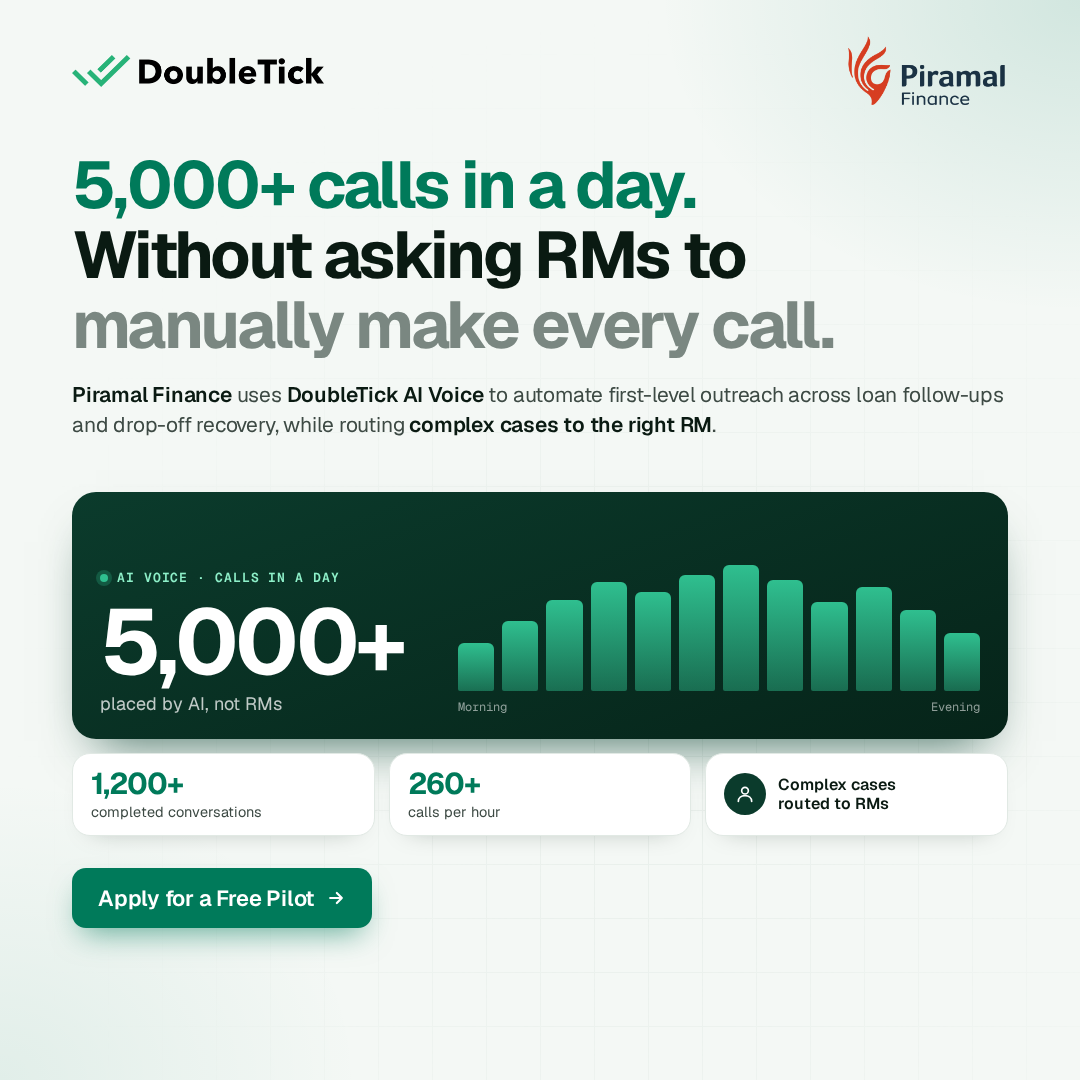
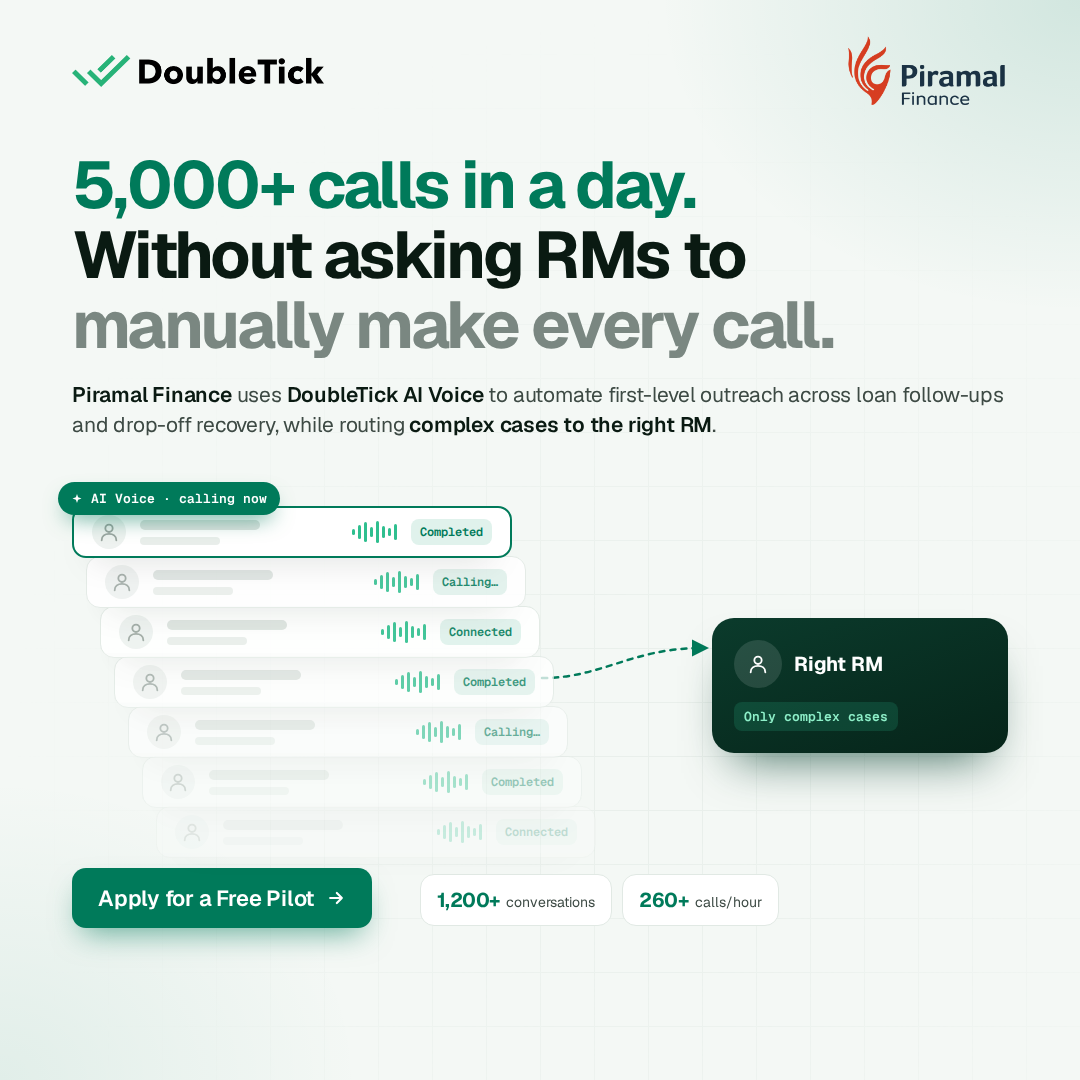
feat: replace metrics card with live-calls visual in Piramal volume ad
Claude-Session: https://claude.ai/code/session_013Hi5o4KgvuLbKTeGkStAKX

diff --git a/ads/doubletick-case-piramal-volume/index.html b/ads/doubletick-case-piramal-volume/index.html
@@ -59,25 +59,38 @@
   .sub { margin-top: 20px; font-size: 21px; line-height: 1.42; color: var(--ink-2); letter-spacing: -0.01em; }
   .sub b { color: var(--ink); font-weight: 600; }
 
-  /* visual: one "today" volume card */
-  .vis { position: absolute; left: 72px; top: 492px; width: 936px; height: 344px; display: grid; grid-template-rows: 1fr auto; gap: 14px; }
-  .main { background: linear-gradient(160deg, #0B3B2C, #062419); border-radius: 24px; padding: 24px 28px; color: #fff;
-    display: grid; grid-template-columns: 330px 1fr; gap: 28px; align-items: end; box-shadow: 0 26px 48px -24px rgba(0,60,43,.75); }
-  .main .k { display: flex; align-items: center; gap: 9px; font-size: 13px; font-weight: 600; letter-spacing: .07em; text-transform: uppercase; color: #8EF0C9; }
-  .main .k i { width: 8px; height: 8px; border-radius: 50%; background: #2FBF8F; box-shadow: 0 0 0 4px rgba(47,191,143,.25); }
-  .main .n { font-size: 92px; font-weight: 700; letter-spacing: -0.05em; line-height: .95; margin-top: 12px; }
-  .main .u { font-size: 18px; color: rgba(255,255,255,.75); margin-top: 6px; }
-  .chart { height: 150px; display: flex; flex-direction: column; gap: 8px; }
-  .bars { flex: 1; display: flex; align-items: flex-end; gap: 8px; }
-  .bars i { flex: 1; border-radius: 6px 6px 2px 2px; background: linear-gradient(180deg, #2FBF8F, rgba(47,191,143,.45)); display: block; }
-  .axis { display: flex; justify-content: space-between; font-size: 12px; color: rgba(255,255,255,.55); }
-  .row { display: grid; grid-template-columns: 1fr 1fr 1fr; gap: 14px; }
-  .tile { background: #fff; border: 1px solid var(--line); border-radius: 18px; padding: 14px 18px; box-shadow: 0 12px 26px -20px rgba(10,26,18,.35); }
-  .tile .v { font-size: 30px; font-weight: 700; letter-spacing: -0.04em; color: var(--green); line-height: 1.05; }
-  .tile .l { font-size: 14.5px; color: var(--ink-2); margin-top: 3px; }
-  .tile.rm { display: flex; align-items: center; gap: 12px; }
-  .tile.rm .av { width: 42px; height: 42px; border-radius: 50%; background: #0B3B2C; display: grid; place-items: center; flex: none; }
-  .tile.rm .t { font-size: 16px; font-weight: 600; line-height: 1.2; }
+  /* visual: a deep stack of live AI calls, one complex case peels off to the RM */
+  .vis { position: absolute; left: 72px; top: 498px; width: 936px; height: 356px; }
+  .stack { position: absolute; left: 0; top: 0; width: 560px; height: 356px; }
+  .call {
+    position: absolute; width: 440px; height: 52px; border-radius: 14px; background: #fff; border: 1px solid var(--line);
+    display: flex; align-items: center; gap: 14px; padding: 0 18px; box-shadow: 0 16px 34px -22px rgba(10,26,18,.4);
+  }
+  .call .av { width: 34px; height: 34px; border-radius: 50%; background: #EEF2F0; display: grid; place-items: center; flex: none; }
+  .call .nm { width: 120px; height: 10px; border-radius: 5px; background: #DDE3E0; }
+  .call .nm2 { width: 80px; height: 8px; border-radius: 4px; background: #E9EEEB; margin-top: 7px; }
+  .call .wv { margin-left: auto; display: flex; align-items: center; gap: 3px; height: 26px; }
+  .call .wv b { width: 3px; border-radius: 2px; background: #2FBF8F; display: block; }
+  .call .st { font-size: 12px; font-weight: 600; padding: 5px 9px; border-radius: 8px; background: var(--green-soft); color: var(--green); white-space: nowrap; }
+  .call.front { border: 2px solid var(--green); }
+  .badge {
+    position: absolute; left: -14px; top: -16px; z-index: 20; display: flex; align-items: center; gap: 8px;
+    background: var(--green); color: #fff; font-size: 13px; font-weight: 600; padding: 8px 13px; border-radius: 999px;
+    box-shadow: 0 10px 22px -8px rgba(0,122,90,.7);
+  }
+  .peel {
+    position: absolute; left: 640px; top: 120px; width: 296px; padding: 22px; border-radius: 22px; color: #fff;
+    background: linear-gradient(160deg, #0B3B2C, #062419); box-shadow: 0 26px 48px -22px rgba(0,60,43,.75);
+    display: flex; flex-direction: column; gap: 14px;
+  }
+  .peel .h { display: flex; align-items: center; gap: 12px; }
+  .peel .av2 { width: 48px; height: 48px; border-radius: 50%; background: rgba(255,255,255,.12); display: grid; place-items: center; }
+  .peel .t { font-size: 20px; font-weight: 700; letter-spacing: -0.01em; }
+  .peel .tag { align-self: flex-start; font-size: 13px; font-weight: 600; color: #8EF0C9; background: rgba(47,191,143,.18); padding: 6px 10px; border-radius: 8px; }
+  .vis svg.arr { position: absolute; left: 470px; top: 120px; width: 170px; height: 80px; overflow: visible; }
+  .pills { position: absolute; left: 420px; top: 874px; display: flex; gap: 10px; }
+  .pill2 { display: flex; align-items: baseline; gap: 7px; padding: 12px 16px; border-radius: 14px; background: #fff; border: 1px solid var(--line); font-size: 14px; color: var(--ink-2); }
+  .pill2 b { font-size: 20px; font-weight: 700; letter-spacing: -0.03em; color: var(--green); }
   .ad > .cta { position: absolute; left: 72px; top: 868px; }
   .btn {
     background: var(--green); color: #fff; font-size: 22px; font-weight: 600; letter-spacing: -0.01em;
@@ -98,19 +111,20 @@
   <p class="sub"><b>Piramal Finance</b> uses <b>DoubleTick AI Voice</b> to automate first-level outreach across loan follow-ups and drop-off recovery, while routing <b>complex cases to the right RM</b>.</p>
 
   <div class="vis">
-    <div class="main">
-      <div>
-        <div class="k mono"><i></i>AI Voice · calls in a day</div>
-        <div class="n">5,000+</div>
-        <div class="u">placed by AI, not RMs</div>
-      </div>
-      <div class="chart"><div class="bars"><i style="height:38%"></i><i style="height:55%"></i><i style="height:72%"></i><i style="height:86%"></i><i style="height:78%"></i><i style="height:92%"></i><i style="height:100%"></i><i style="height:88%"></i><i style="height:70%"></i><i style="height:82%"></i><i style="height:64%"></i><i style="height:46%"></i></div><div class="axis mono"><span>Morning</span><span>Evening</span></div></div>
+    <div class="stack">
+      <div class="badge mono"><svg width="12" height="12" viewBox="0 0 24 24" fill="#fff"><path d="M12 2l2.2 6.6L21 11l-6.8 2.4L12 20l-2.2-6.6L3 11l6.8-2.4z"/></svg>AI Voice · calling now</div>
+      <div class="call" style="left:84px;top:308px;opacity:0.18;z-index:4"><span class="av"><svg width="22" height="22" viewBox="0 0 24 24" fill="none" stroke="#9AA5A0" stroke-width="2" stroke-linecap="round"><circle cx="12" cy="8" r="4"/><path d="M4 21c0-4.4 3.6-7 8-7s8 2.6 8 7"/></svg></span><div><div class="nm"></div><div class="nm2"></div></div><span class="wv"><b style="height:6px"></b><b style="height:14px"></b><b style="height:20px"></b><b style="height:10px"></b><b style="height:22px"></b><b style="height:12px"></b><b style="height:8px"></b><b style="height:16px"></b></span><span class="st mono">Connected</span></div><div class="call" style="left:70px;top:258px;opacity:0.29999999999999993;z-index:5"><span class="av"><svg width="22" height="22" viewBox="0 0 24 24" fill="none" stroke="#9AA5A0" stroke-width="2" stroke-linecap="round"><circle cx="12" cy="8" r="4"/><path d="M4 21c0-4.4 3.6-7 8-7s8 2.6 8 7"/></svg></span><div><div class="nm"></div><div class="nm2"></div></div><span class="wv"><b style="height:6px"></b><b style="height:14px"></b><b style="height:20px"></b><b style="height:10px"></b><b style="height:22px"></b><b style="height:12px"></b><b style="height:8px"></b><b style="height:16px"></b></span><span class="st mono">Completed</span></div><div class="call" style="left:56px;top:208px;opacity:0.43999999999999995;z-index:6"><span class="av"><svg width="22" height="22" viewBox="0 0 24 24" fill="none" stroke="#9AA5A0" stroke-width="2" stroke-linecap="round"><circle cx="12" cy="8" r="4"/><path d="M4 21c0-4.4 3.6-7 8-7s8 2.6 8 7"/></svg></span><div><div class="nm"></div><div class="nm2"></div></div><span class="wv"><b style="height:6px"></b><b style="height:14px"></b><b style="height:20px"></b><b style="height:10px"></b><b style="height:22px"></b><b style="height:12px"></b><b style="height:8px"></b><b style="height:16px"></b></span><span class="st mono">Calling…</span></div><div class="call" style="left:42px;top:158px;opacity:0.58;z-index:7"><span class="av"><svg width="22" height="22" viewBox="0 0 24 24" fill="none" stroke="#9AA5A0" stroke-width="2" stroke-linecap="round"><circle cx="12" cy="8" r="4"/><path d="M4 21c0-4.4 3.6-7 8-7s8 2.6 8 7"/></svg></span><div><div class="nm"></div><div class="nm2"></div></div><span class="wv"><b style="height:6px"></b><b style="height:14px"></b><b style="height:20px"></b><b style="height:10px"></b><b style="height:22px"></b><b style="height:12px"></b><b style="height:8px"></b><b style="height:16px"></b></span><span class="st mono">Completed</span></div><div class="call" style="left:28px;top:108px;opacity:0.72;z-index:8"><span class="av"><svg width="22" height="22" viewBox="0 0 24 24" fill="none" stroke="#9AA5A0" stroke-width="2" stroke-linecap="round"><circle cx="12" cy="8" r="4"/><path d="M4 21c0-4.4 3.6-7 8-7s8 2.6 8 7"/></svg></span><div><div class="nm"></div><div class="nm2"></div></div><span class="wv"><b style="height:6px"></b><b style="height:14px"></b><b style="height:20px"></b><b style="height:10px"></b><b style="height:22px"></b><b style="height:12px"></b><b style="height:8px"></b><b style="height:16px"></b></span><span class="st mono">Connected</span></div><div class="call" style="left:14px;top:58px;opacity:0.86;z-index:9"><span class="av"><svg width="22" height="22" viewBox="0 0 24 24" fill="none" stroke="#9AA5A0" stroke-width="2" stroke-linecap="round"><circle cx="12" cy="8" r="4"/><path d="M4 21c0-4.4 3.6-7 8-7s8 2.6 8 7"/></svg></span><div><div class="nm"></div><div class="nm2"></div></div><span class="wv"><b style="height:6px"></b><b style="height:14px"></b><b style="height:20px"></b><b style="height:10px"></b><b style="height:22px"></b><b style="height:12px"></b><b style="height:8px"></b><b style="height:16px"></b></span><span class="st mono">Calling…</span></div><div class="call front" style="left:0px;top:8px;opacity:1;z-index:10"><span class="av"><svg width="22" height="22" viewBox="0 0 24 24" fill="none" stroke="#9AA5A0" stroke-width="2" stroke-linecap="round"><circle cx="12" cy="8" r="4"/><path d="M4 21c0-4.4 3.6-7 8-7s8 2.6 8 7"/></svg></span><div><div class="nm"></div><div class="nm2"></div></div><span class="wv"><b style="height:6px"></b><b style="height:14px"></b><b style="height:20px"></b><b style="height:10px"></b><b style="height:22px"></b><b style="height:12px"></b><b style="height:8px"></b><b style="height:16px"></b></span><span class="st mono">Completed</span></div>
     </div>
-    <div class="row">
-      <div class="tile"><div class="v">1,200+</div><div class="l">completed conversations</div></div>
-      <div class="tile"><div class="v">260+</div><div class="l">calls per hour</div></div>
-      <div class="tile rm"><span class="av"><svg width="20" height="20" viewBox="0 0 24 24" fill="none" stroke="#fff" stroke-width="2" stroke-linecap="round" stroke-linejoin="round"><circle cx="12" cy="8" r="4"/><path d="M4 21c0-4.4 3.6-7 8-7s8 2.6 8 7"/></svg></span><div class="t">Complex cases<br/>routed to RMs</div></div>
+    <svg class="arr" viewBox="0 0 170 80" fill="none"><defs><marker id="ah" viewBox="0 0 10 10" refX="6" refY="5" markerWidth="7" markerHeight="7" orient="auto"><path d="M0 0L10 5L0 10z" fill="#007A5A"/></marker></defs><path d="M0 60 C 60 60, 90 30, 160 30" stroke="#007A5A" stroke-width="2.5" stroke-dasharray="5 6" stroke-linecap="round" marker-end="url(#ah)"/></svg>
+    <div class="peel">
+      <div class="h"><span class="av2"><svg width="22" height="22" viewBox="0 0 24 24" fill="none" stroke="#fff" stroke-width="2" stroke-linecap="round" stroke-linejoin="round"><circle cx="12" cy="8" r="4"/><path d="M4 21c0-4.4 3.6-7 8-7s8 2.6 8 7"/></svg></span><span class="t">Right RM</span></div>
+      <span class="tag mono">Only complex cases</span>
     </div>
+  </div>
+
+  <div class="pills">
+    <span class="pill2"><b>1,200+</b>conversations</span>
+    <span class="pill2"><b>260+</b>calls/hour</span>
   </div>
 
   <div class="cta">
